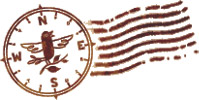
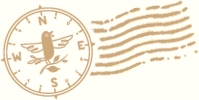
some css and empty dates text on markers

diff --git a/sites/all/themes/wanderlust/css/blog.css b/sites/all/themes/wanderlust/css/blog.css
@@ -14,7 +14,7 @@
 }
 
 .journal #header{
-  background: url('../images/blog-stamp.jpg') no-repeat #ffffff;
+  background: url('../images/blog-stamp.jpg') no-repeat #fffef8;
   background-position: 22px 14px;
 }
 
@@ -29,16 +29,32 @@
 /* BLOG NAV
 --------------------------------*/
 
+.journal #navigation ul.nice-menu{
+  background: none !important;
+  text-align: center;
+  display: inline-block !important;
+  width: 960px;
+}
+
+.journal #navigation ul li{
+  float: none;
+  display: inline;
+}
+
+
+
 .journal #navigation{
-  background: url('../images/blog-nav-bar.png') #fff;
-  height: 40px;
+  background: url('../images/blog-nav-bar.png') #fffef8;
+  height: 30px;
+  margin: 0 0 18px -1px;
 }
 
 .journal #navigation li a{
   font-family: 'lhf_egyptianregular', arial !important;
   font-size: 22px !important;
   font-weight: normal !important;
-  padding: 1px 34px 7px !important;
+  padding: 1px 23px 0px !important;
+  display: inline-block !important;
 }
 
 .menu-path-taxonomy-term-239 a,
@@ -77,7 +93,7 @@
 }
 
 .journal #navigation ul.nice-menu li a{
-  margin: 10px 0 0 0;
+  margin: 7px 0 0 0;
 }
 
 
@@ -85,19 +101,44 @@
 --------------------------------*/
 
 body.journal{
-  background: url('../images/blog-bg.jpg') no-repeat center center fixed !important;
-  -webkit-background-size: cover !important;
-  -moz-background-size: cover !important;
-  -o-background-size: cover !important;
-  background-size: cover !important;
+  background: #fffef8;
   }
   
 .journal .body-content{
-  background: #fff3de;
+
+}
+
+.journal .body-content #main{
+  background: url('../images/border-bg.png') top repeat-x;
+  padding: 18px 0;
+}
+
+
+/* BLOG FEATURED POST
+--------------------------------*/
+
+.view-all-blog-posts.view-display-id-block_1 .views-field-field-blog-image-fid{
+  float: left;
+  margin-right: 20px;  
 }
 
 
 
+/* BLOG SECONDARY POSTS
+--------------------------------*/
+.view-all-blog-posts.view-display-id-block_2{
+  float: left;
+}
+
+
+.view-all-blog-posts.view-display-id-block_2 .views-row{
+ 
+}
+
+#block-views-all_blog_posts-block_2{
+  background: url('../images/border-bg.png') top repeat-x; 
+  padding-top: 10px;
+}
 
 /* BLOG INDEX
 ------------------------ */
@@ -107,7 +148,7 @@ body.sidebar-right.journal #main{
   padding:10px !important;
 }
 
-.journal .view-all-blog-posts {
+.journal .view-all-blog-posts.view-display-id-page_1 {
   width: 650px;
   margin-right: 10px;
   float:left;
@@ -164,8 +205,8 @@ body.sidebar-right.journal #main{
 .view-all-blog-posts .views-field-nothing,
 .meta{
   margin: 0px 0 8px 0;
-  color: #d0ac80;
-  font-family: 'MrsEavesOT-Italic', georgia, 'times new roman';
+  color: #bc8d54;
+  font-family: 'baskerville_fsitalic', georgia, 'times new roman';
   font-size: 16px;
   line-height: 1;
 }
@@ -176,6 +217,8 @@ body.sidebar-right.journal #main{
   padding-top: 10px;
   margin-top: 10px;
   height: 29px;
+  border-bottom: 1px solid #eedac0;
+  padding-bottom: 10px;
 }
 
 .view-all-blog-posts .views-field-body{
@@ -196,6 +239,10 @@ body.sidebar-right.journal #main{
 
 .view-all-blog-posts .views-field-field-blog-image-fid{
   float: left;
+}
+
+.view-display-id-block_2.view-all-blog-posts .views-field-field-blog-image-fid img{
+
 }
 
 .view-all-blog-posts .views-field-field-blog-image-fid a{ 
@@ -337,7 +384,7 @@ body.sidebar-right.journal #main{
 }
 
 .node-type-blog .panels-flexible-region-first,
-.view-all-blog-posts{
+.view-all-blog-posts.view-display-id-page_1{
   width: 614px;
   margin-right: 36px;
   float: left;

diff --git a/sites/all/themes/wanderlust/css/custom.css b/sites/all/themes/wanderlust/css/custom.css
@@ -1512,8 +1512,8 @@ div.carousel-overlay .carousel-overlay-event {
 
 
 
-.slidemain .views-field-title,
-.slidemain .views-field-title a{
+.front .slidemain .views-field-title,
+.front .slidemain .views-field-title a{
   width: 994px;
   margin: 6px 0;
   color: #3b6b60;
@@ -1522,7 +1522,7 @@ div.carousel-overlay .carousel-overlay-event {
   background: url('http://9394bc4f934eb8c957d8-2f084e1f525b6270d41d6d2c79f4c609.r93.cf1.rackcdn.com/2013-images/section-border-bg.png') repeat-x;
   }
 
-.slidemain .views-field-title span{
+.front .slidemain .views-field-title span{
   background: url('http://9394bc4f934eb8c957d8-2f084e1f525b6270d41d6d2c79f4c609.r93.cf1.rackcdn.com/2013-images/section-border-bg.png') bottom repeat-x;
   display: block;
   padding: 8px 0 6px 10px;

diff --git a/sites/all/modules/wysiwyg_imageupload/js/wysiwyg_imageupload_uploadform.js b/sites/all/modules/wysiwyg_imageupload/js/wysiwyg_imageupload_uploadform.js
@@ -2,10 +2,11 @@
 // Copyright (c) 2010 KontextWork GbR
 // Author: Eugen Mayer
 Drupal.behaviors.wysiwyg_imageupload_uploadform = function () {
-  $('#edit-wysiwyg-imageupload-file').bind('change', function() {
-      $('.dialog-page-content *').hide();
-      $('.dialog-page-content').addClass('uploading');
-      $('form').submit();
+  var $jq = jQuery.noConflict();
+  $jq('#edit-wysiwyg-imageupload-file').bind('change', function() {
+      $jq('.dialog-page-content *').hide();
+      $jq('.dialog-page-content').addClass('uploading');
+      $jq('form').submit();
     }
   );
 }

diff --git a/sites/all/themes/wanderlust/page-front.tpl.php b/sites/all/themes/wanderlust/page-front.tpl.php
@@ -486,8 +486,10 @@ var $body = $('body'),
   <?php  foreach ($sites as $site): // print  checkboxes for sites  with own data ?> 
       
     <?php 
-      
+           
     foreach($site->extra_fields->taxonomy as $n) {
+
+      
   	  if($n->tid == 93) {
   	     $class = 'festival'; 
   	  }
@@ -519,20 +521,38 @@ var $body = $('body'),
         $item .= '<div class="site-marker"></div>';
         $item .= '<div class="site-title"><a href="http://' . $site->purl_prefix . '.' . $base . '">' . $site->title . '</a></div>';
         $item .= '<div class="siteevent"><div class="item-date">';
-        
+      //   print '<pre>' . print_r($site->extra_fields->field_event_date[0]['value'], 1) . '</pre>';
         // CODE FOR DATE WHEN START & ENDING DATE ARE THE SAME
-        if (substr($site->extra_fields->field_event_date[0]['value'], 0, 10) == substr($site->extra_fields->field_event_date[0]['value2'], 0, 10)) {
-            $item .= date('F j, Y', strtotime($site->extra_fields->field_event_date[0]['value'])) . '</div>';
-        }
-        
-        // CODE FOR DATE WHEN START & ENDING MONTHS ARE DIFFERENT
-        else {
-            $item .= date('F j -', strtotime($site->extra_fields->field_event_date[0]['value'])) . ' ' . date('F j, Y', strtotime($site->extra_fields->field_event_date[0]['value2'])) . '</div>';
-        }
+	
+/*	if ($class == 'yoga') {
+	   $item .= 'Dates coming soon' . '</div>';
+	}
+	else {*/
+	  if (substr($site->extra_fields->field_event_date[0]['value'], 0, 10) == substr($site->extra_fields->field_event_date[0]['value2'], 0, 10)) {
+	      $item .= date('F j, Y', strtotime($site->extra_fields->field_event_date[0]['value'])) . '</div>';
+	  }
+	  
+	  // CODE FOR DATE WHEN START & ENDING MONTHS ARE DIFFERENT
+	  else {
+	      $item .= date('F j -', strtotime($site->extra_fields->field_event_date[0]['value'])) . ' ' . date('F j, Y', strtotime($site->extra_fields->field_event_date[0]['value2'])) . '</div>';
+	  }
+//	}
+
         
         $item .= '<div class="siteaddress">' . $site->extra_fields->field_event_venue[0]['value'] . '</div>';
         $item .= '<div class="siteaddress venue">' . $site->extra_fields->field_event_city[0]['value'] . ', ' . $site->extra_fields->field_event_state[0]['value'] . ', ' . $site->extra_fields->field_event_country[0]['value'] . '</div></div></div>';
     }
+      elseif(!$site->extra_fields->field_event_date[0]['value'] && $class == 'yoga') {
+        $item = '<div class="site-item">';
+        $item .= '<div class="site-marker"></div>';
+        $item .= '<div class="site-title"><a href="http://' . $site->purl_prefix . '.' . $base . '">' . $site->title . '</a></div>';
+        $item .= '<div class="siteevent"><div class="item-date">';
+      //   print '<pre>' . print_r($site->extra_fields->field_event_date[0]['value'], 1) . '</pre>';
+        // CODE FOR DATE WHEN START & ENDING DATE ARE THE SAME
+        $item .= 'Dates coming soon' . '</div>';
+        $item .= '<div class="siteaddress">' . $site->extra_fields->field_event_venue[0]['value'] . '</div>';
+        $item .= '<div class="siteaddress venue">' . $site->extra_fields->field_event_city[0]['value'] . ', ' . $site->extra_fields->field_event_state[0]['value'] . ', ' . $site->extra_fields->field_event_country[0]['value'] . '</div></div></div>';
+    } 
     
     else {
         $item .= '<div class="site-item"><div class="event-right">';
@@ -599,6 +619,7 @@ var $body = $('body'),
           $item = '<div class="site-item">';
           $item .= '<div class="site-title">' . $site->extra_fields->title . '</div>';
           $item .= '<div class="siteevent"><div class="item-date">';
+	  
           if (substr($site->extra_fields->field_event_date[0]['value'], 0, 10) == substr($site->extra_fields->field_event_date[0]['value2'], 0, 10)) {
               $item .= date('F j, Y', strtotime($site->extra_fields->field_event_date[0]['value'])) . '</div>';
           } else {

diff --git a/sites/all/themes/wanderlust/template.php b/sites/all/themes/wanderlust/template.php
@@ -485,3 +485,6 @@ function wwanderlust_content_view_multiple_field($items, $field, $values) {
     return $output;    
   }
 }
+
+
+
